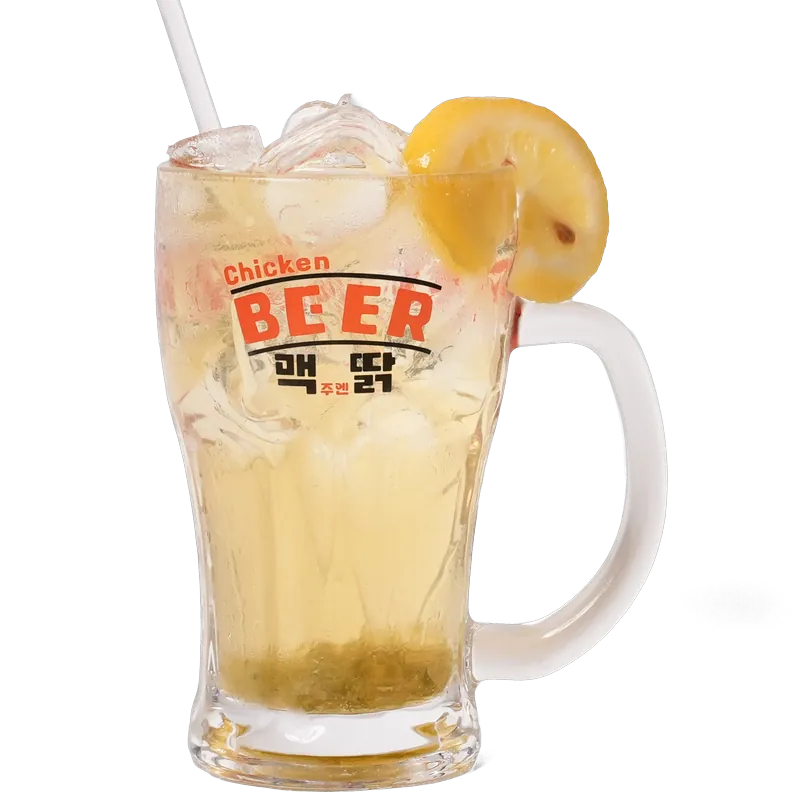
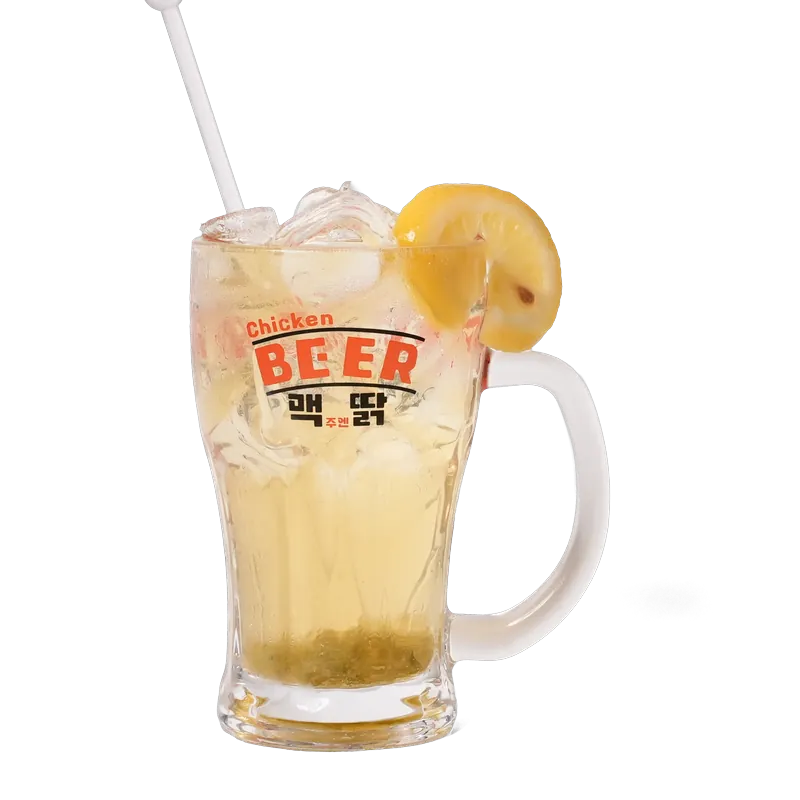
주류 카드 잔 크기 통일 + 마퀴 이름 렌더링 색번짐 방지
- 주류 5종만 재생성 (다른 메뉴 카드는 변경 없음):
  행별 실루엣 폭으로 잔 본체를 감지(빨대 제외), 본체 높이 70% 통일,
  잔 바닥 93% 라인 정렬 — 잔 모양과 무관하게 크기 동일
- 메인 마퀴 메뉴 이름: 이동 중 서브픽셀 안티앨리어싱 색번짐 방지
  (font-smoothing 통일 + 트랙 GPU 합성 고정) — 측정상 색상은 전부 #fff 동일

Changed region(s): [[0.1875, 0.0938, 0.8438, 1.0], [0.1875, 0.0, 0.25, 0.0938]]

diff --git a/app/static/css/main.css b/app/static/css/main.css
@@ -230,7 +230,9 @@ body.main main{padding:0}
 .mmi{width:min(420px,78vw);flex-shrink:0;cursor:pointer;transition:transform .3s}
 .mmi:hover{transform:translateY(-8px)}
 .mmi .ph-img,.mmi .ph{width:100%;height:310px;object-fit:contain;filter:drop-shadow(0 22px 38px rgba(0,0,0,.55))}
-.mmi span{display:block;margin-top:12px;font-size:19px;font-weight:800;color:#fff;text-shadow:0 2px 10px rgba(0,0,0,.85)}  /* 이름은 전부 흰색·동일 크기 */
+.mmi span{display:block;margin-top:12px;font-size:19px;font-weight:800;color:#fff;text-shadow:0 2px 10px rgba(0,0,0,.85);
+  -webkit-font-smoothing:antialiased;backface-visibility:hidden}  /* 이름 전부 흰색·동일 크기 — 이동 중 서브픽셀 색번짐 방지 */
+.mq-track{will-change:transform}
 @media(max-width:1024px){.mmi .ph-img,.mmi .ph{height:220px}}
 
 /* ---------- S8 인테리어 2열 역방향 마퀴 ---------- */

diff --git a/import_menus.py b/import_menus.py
@@ -93,7 +93,31 @@ def _mass_bbox(alpha, lo=0.02, hi=0.98, min_a=200):
             min(w, int((x1 + 1) * sc)), min(h, int((y1 + 1) * sc)))
 
 
-def optimize(src, out_path, max_px, square=False, scale_mult=1.0):
+def _drink_body(alpha, min_a=200, w_ratio=0.42):
+    """잔 본체 bbox — 행별 실루엣 폭이 최대폭의 w_ratio 이상인 구간.
+    빨대·머들러(가는 돌출)는 폭이 좁아 제외되고 잔(거품·손잡이 포함)만 잡힌다."""
+    w, h = alpha.size
+    sc = max(1.0, max(w, h) / 300.0)
+    sw, sh = max(1, round(w / sc)), max(1, round(h / sc))
+    px = list(alpha.resize((sw, sh)).getdata())
+    spans = []                                  # (y, x0, x1) — 마스크 행 극좌우
+    for y in range(sh):
+        row = px[y * sw:(y + 1) * sw]
+        xs = [x for x, v in enumerate(row) if v >= min_a]
+        spans.append((xs[0], xs[-1]) if xs else None)
+    widths = [(s[1] - s[0] + 1) if s else 0 for s in spans]
+    max_w = max(widths) or 1
+    body_ys = [y for y, wd in enumerate(widths) if wd >= max_w * w_ratio]
+    if not body_ys:
+        return _mass_bbox(alpha)
+    y0, y1 = body_ys[0], body_ys[-1]
+    x0 = min(spans[y][0] for y in body_ys)
+    x1 = max(spans[y][1] for y in body_ys)
+    return (int(x0 * sc), int(y0 * sc),
+            min(w, int((x1 + 1) * sc)), min(h, int((y1 + 1) * sc)))
+
+
+def optimize(src, out_path, max_px, square=False, scale_mult=1.0, drink=False):
     """투명 여백(알파 bbox) 크롭 + RGBA 유지 WebP 저장. 이미 있으면 스킵(--rebuild 시 재생성).
     square=True 면 max_px 정사각 캔버스에 88% 크기로 중앙 배치 → 카드 크기·정렬 통일."""
     from PIL import Image
@@ -113,15 +137,27 @@ def optimize(src, out_path, max_px, square=False, scale_mult=1.0):
         # 본체를 정중앙 배치 — 그림자/여백 비율과 무관하게 모든 카드의 음식 크기·위치 동일.
         # 본체는 절대 잘리지 않고, 연한 그림자만 가장자리에서 잘릴 수 있음.
         w, h = img.width, img.height
-        # 질량 기반 본체 bbox — 그림자·빨대·경계 품질 차이에 강건 (_mass_bbox 참조)
-        solid = _mass_bbox(img.getchannel("A"))
-        sw, sh = solid[2] - solid[0], solid[3] - solid[1]
-        scale = (max_px * 0.92 * scale_mult) / max(sw, sh)
-        nw, nh = round(w * scale), round(h * scale)
-        img = img.resize((nw, nh), Image.LANCZOS)
-        sl, st, sr, sb = [round(v * scale) for v in solid]
-        px = round(max_px / 2 - (sl + sr) / 2)
-        py = round(max_px / 2 - (st + sb) / 2)
+        if drink:
+            # 주류: 잔 본체 높이를 70% 로 통일하고 잔 바닥을 93% 라인에 정렬
+            # (잔 모양·빨대 길이와 무관하게 잔 크기 동일 — 빨대는 위로 자연스럽게 뻗음)
+            body = _drink_body(img.getchannel("A"))
+            bw, bh = body[2] - body[0], body[3] - body[1]
+            scale = (max_px * 0.70 * scale_mult) / bh
+            nw, nh = round(w * scale), round(h * scale)
+            img = img.resize((nw, nh), Image.LANCZOS)
+            bl, bt, br, bb = [round(v * scale) for v in body]
+            px = round(max_px / 2 - (bl + br) / 2)
+            py = round(max_px * 0.93 - bb)
+        else:
+            # 질량 기반 본체 bbox — 그림자·빨대·경계 품질 차이에 강건 (_mass_bbox 참조)
+            solid = _mass_bbox(img.getchannel("A"))
+            sw, sh = solid[2] - solid[0], solid[3] - solid[1]
+            scale = (max_px * 0.92 * scale_mult) / max(sw, sh)
+            nw, nh = round(w * scale), round(h * scale)
+            img = img.resize((nw, nh), Image.LANCZOS)
+            sl, st, sr, sb = [round(v * scale) for v in solid]
+            px = round(max_px / 2 - (sl + sr) / 2)
+            py = round(max_px / 2 - (st + sb) / 2)
         canvas = Image.new("RGBA", (max_px, max_px), (0, 0, 0, 0))
         canvas.paste(img, (px, py), img)
         canvas.save(out_path, "WEBP", quality=80, method=6)
@@ -193,7 +229,8 @@ def build_records():
             detail_src = entry["files"].get(2, card_src)
             stem = f"c{cat_no:02d}_m{menu_no:02d}"
             card_kb = optimize(card_src, OUT_DIR / f"{stem}.webp", CARD_SIZE, square=True,
-                               scale_mult=CARD_SCALE.get(name, 1.0))
+                               scale_mult=CARD_SCALE.get(name, 1.0),
+                               drink=(disp_cat == DRINK_CATEGORY))
             detail_kb = optimize(detail_src, OUT_DIR / f"{stem}_d.webp", DETAIL_SIZE)
             rec = {
                 "cat_no": cat_no, "cat_name": disp_cat,
